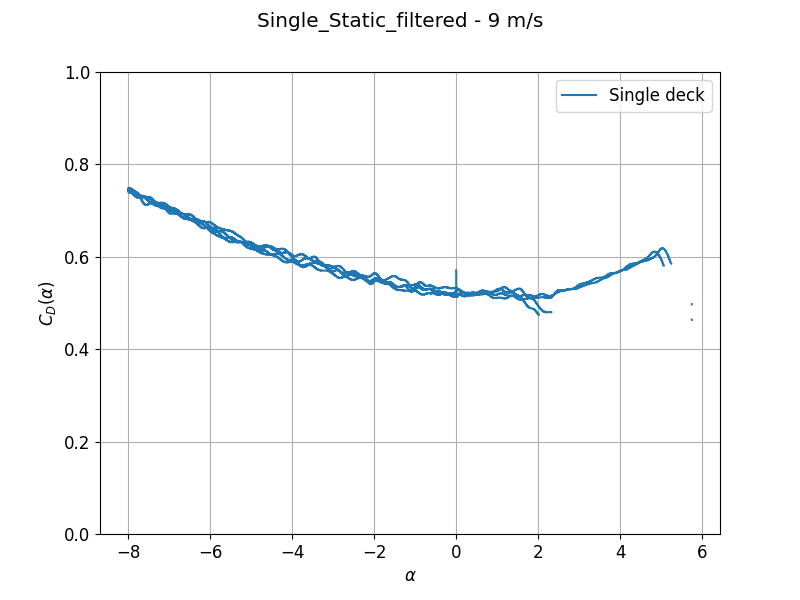
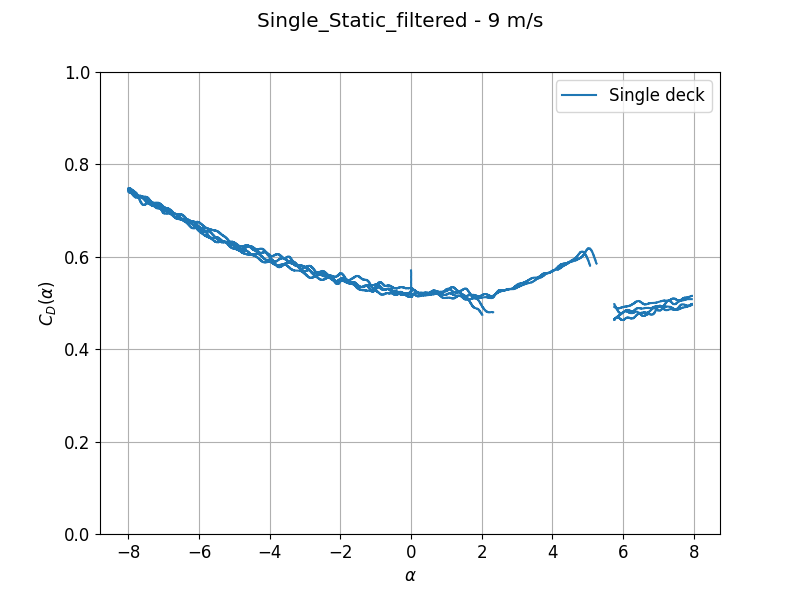
debugge

diff --git a/HAR_INT/static_coeff.py b/HAR_INT/static_coeff.py
@@ -294,7 +294,7 @@ plt.savefig( os.path.join(r"C:\Users\liner\Documents\Github\Masteroppgave\HAR_IN
 #%%  Filter and plot ALT 2
 section_name = "MUS_1D_Static_filtered" 
 
-static_coeff_MDS_1D_6_filtered, static_coeff_MDS_1D_8_filtered, static_coeff_MDS_1D_10_filtered = w3t._scoff.filter_by_reference(static_coeff_1=static_coeff_MDS_1D_6, static_coeff_2=static_coeff_MDS_1D_8, static_coeff_3=static_coeff_MDS_1D_10, threshold=0.05, threshold_low=[0.06,0.05,0.05],threshold_med = [0.005,0.03,0.05],threshold_high=[0.05,0.01,0.05],single=False)
+static_coeff_MDS_1D_6_filtered, static_coeff_MDS_1D_8_filtered, static_coeff_MDS_1D_10_filtered = w3t._scoff.filter_by_reference(static_coeff_1=static_coeff_MDS_1D_6, static_coeff_2=static_coeff_MDS_1D_8, static_coeff_3=static_coeff_MDS_1D_10, threshold=0.05, threshold_low=[0.08,0.05,0.05],threshold_med = [0.005,0.03,0.05],threshold_high=[0.05,0.01,0.05],single=False)
 
 plot_static_coeff_summary(static_coeff_MDS_1D_6_filtered, section_name, 6, mode="decks", upwind_in_rig=False)
 plot_static_coeff_summary(static_coeff_MDS_1D_8_filtered, section_name, 8, mode="decks", upwind_in_rig=False)

diff --git a/w3tp/w3t/_scoff.py b/w3tp/w3t/_scoff.py
@@ -1535,7 +1535,7 @@ def filter_by_reference(static_coeff_1, static_coeff_2, static_coeff_3=None, thr
         alpha = np.round(static_coeff.pitch_motion * 360 / (2 * np.pi), 1)
         return alpha, static_coeff.drag_coeff.copy(), static_coeff.lift_coeff.copy(), static_coeff.pitch_coeff.copy()
     
-    def remove_after_jump(alpha_vals, coeff_array, threshold_jump=0.12):
+    def remove_after_jump(alpha_vals, coeff_array, threshold_jump=0.1):
         alpha_vals_rounded = np.round(alpha_vals, 1)
         unique_alpha = np.sort(np.unique(alpha_vals_rounded))
 
